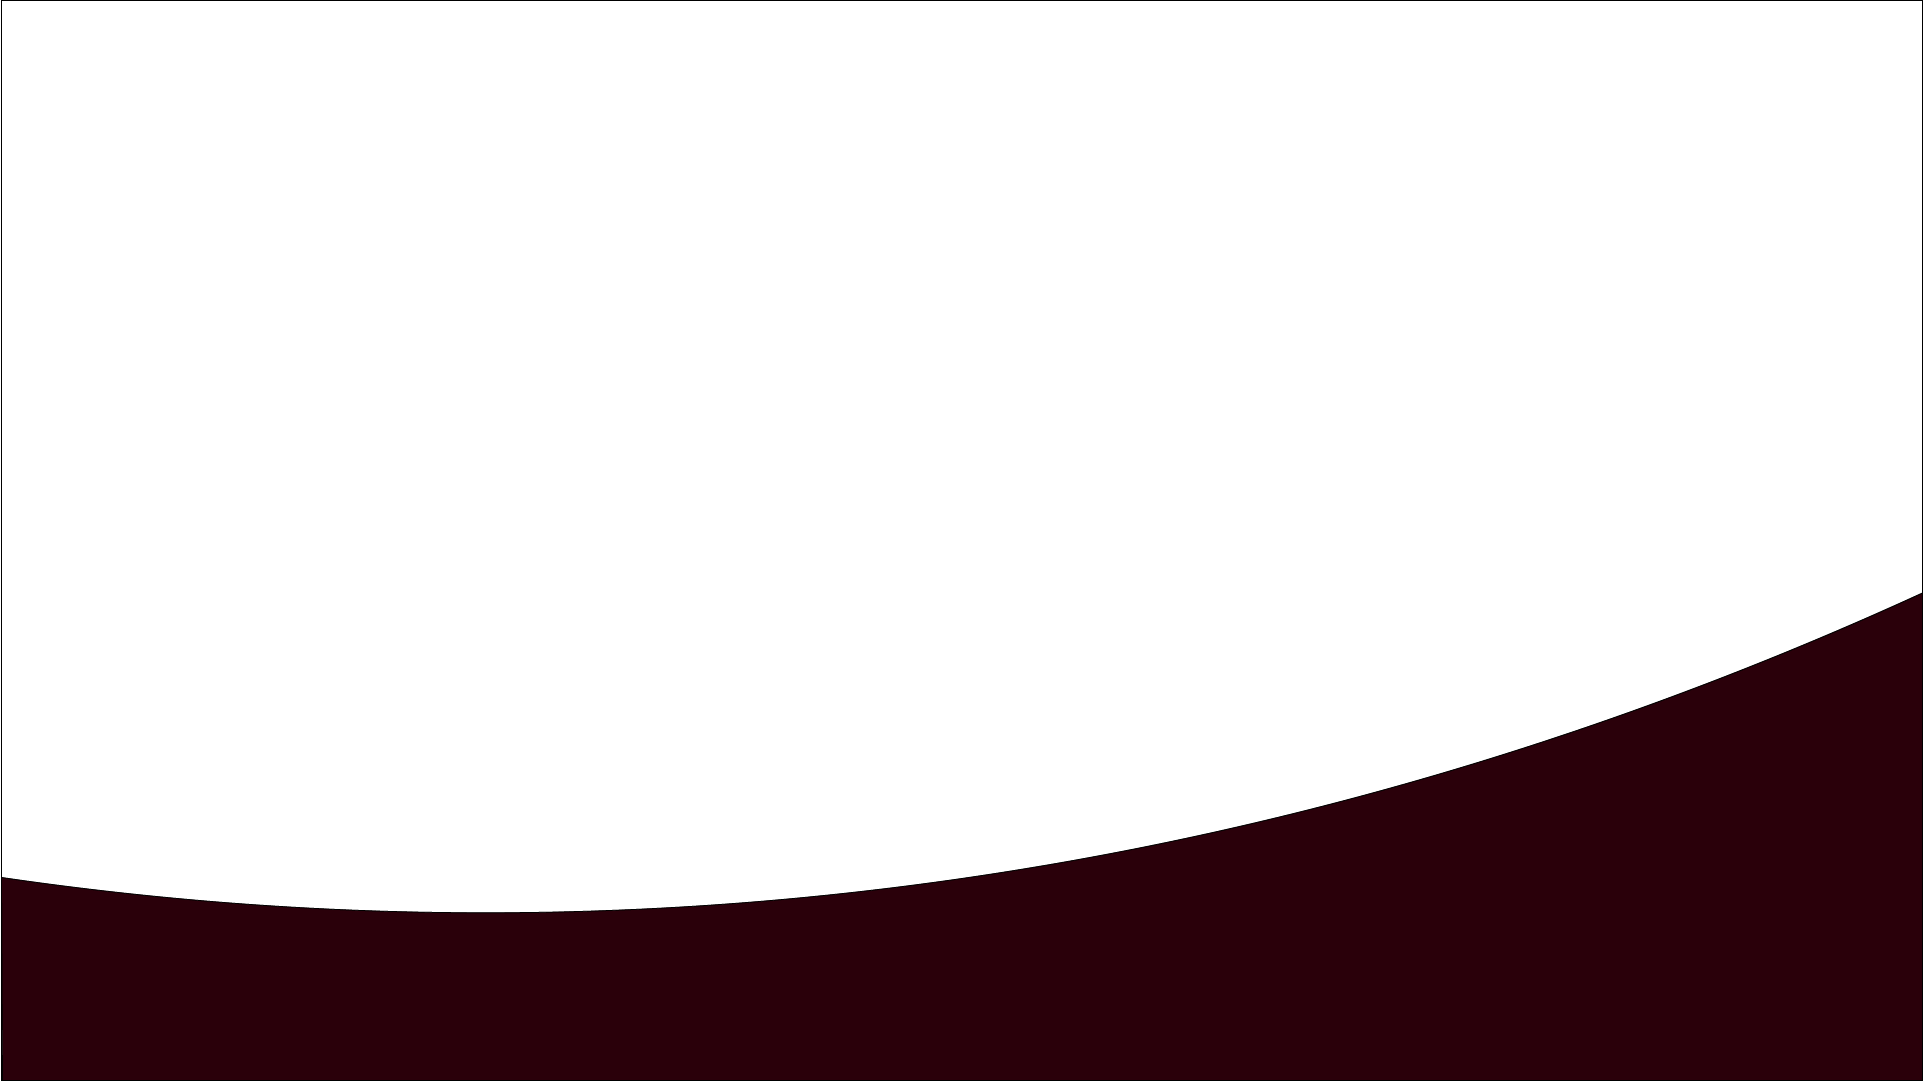
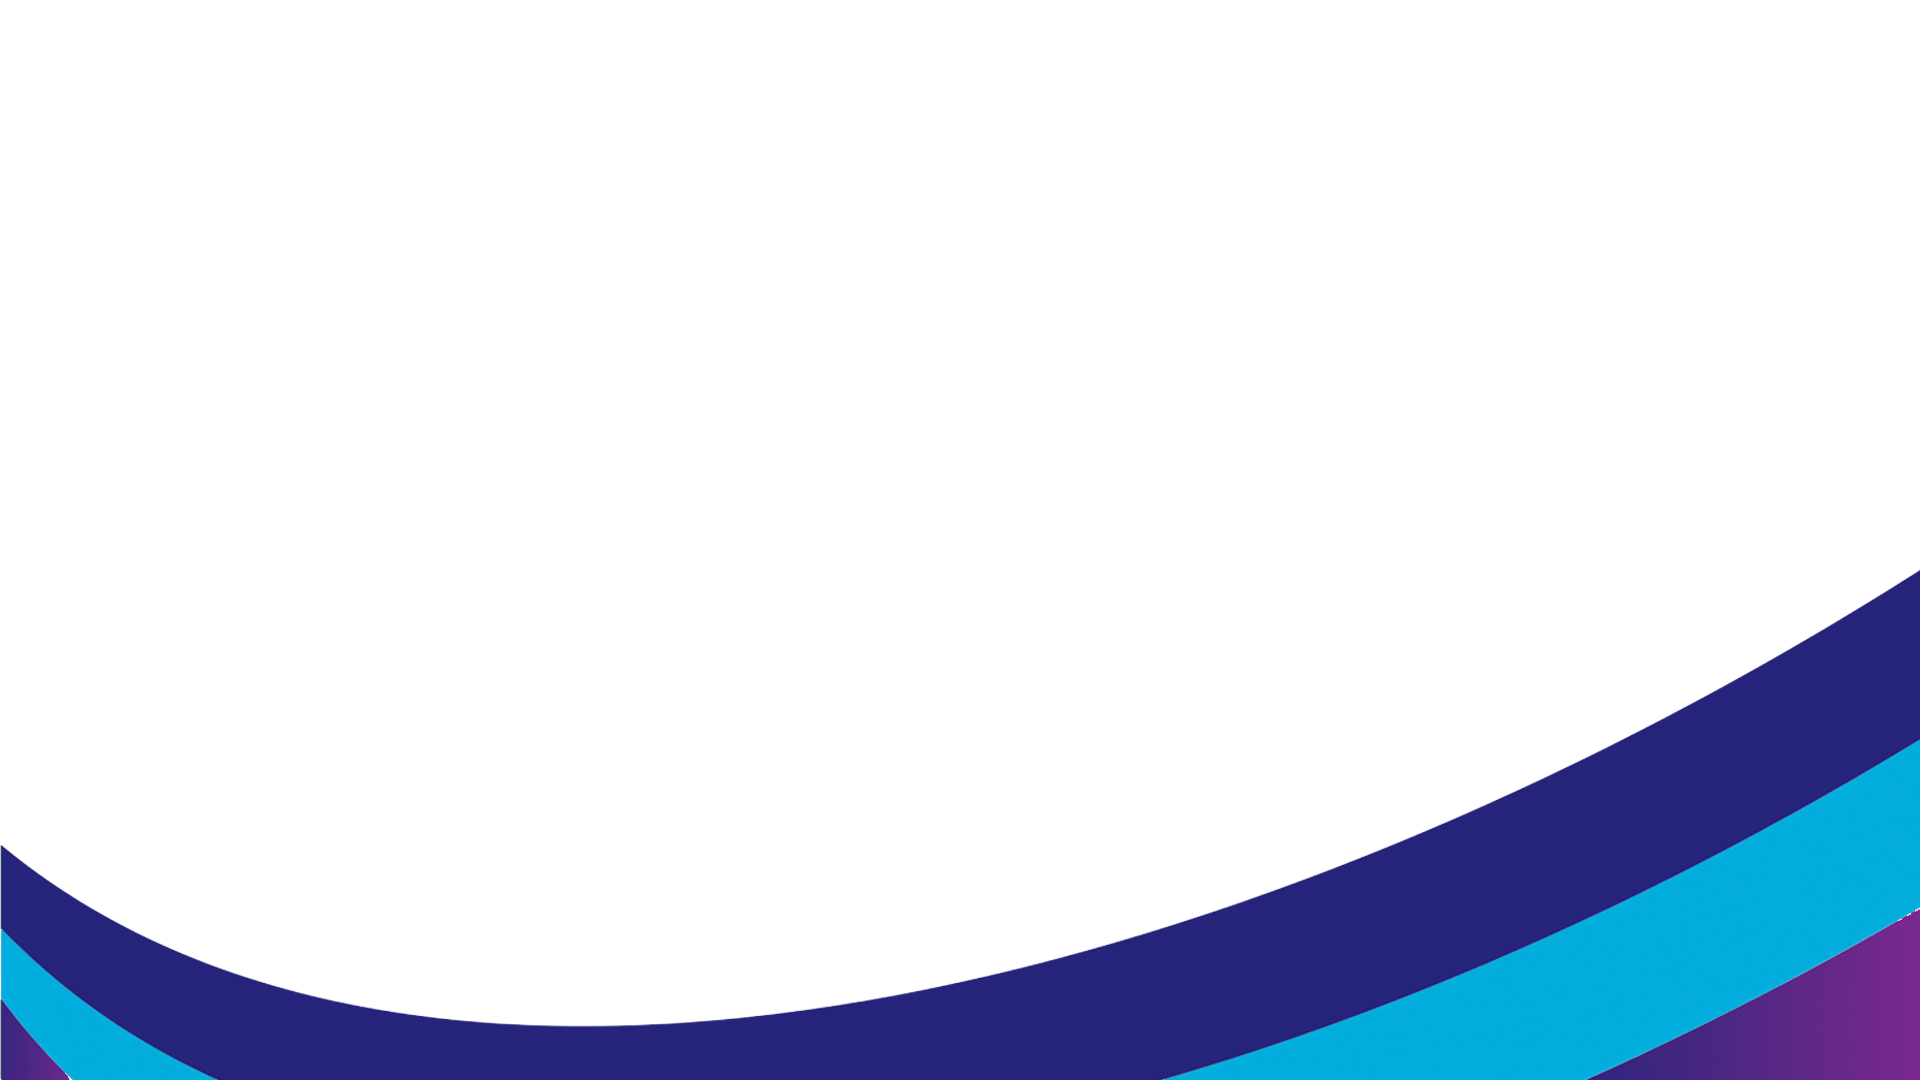
Did some changes to fonts, added a new footer background file

Changed region(s): [[0.0, 0.5194, 1.0, 1.0]]

diff --git a/src/pages/home/Home.css b/src/pages/home/Home.css
@@ -1,18 +1,21 @@
 .destinations {
     padding-bottom: 200px;
+
     .container {
         h1 {
             margin: 80px 0px;
             font-size: 400%;
             font-style: italic;
             font-weight: normal;
-            color:#333;
+            color:#77328B;
         }
 
         select {
             width: 50%;
             padding: 20px;
             margin: 0px 0px 50px 0px;
+            color: #252776;
+            font-style: italic;
         }
     }
 }
@@ -44,7 +47,7 @@
 
             h3 {
                 font-style: italic;
-                color: #333;
+                color: #77328B;
             }
 
             p {
@@ -53,7 +56,7 @@
 
             button {
                 border: none;
-                background-color: #333;
+                background-color: #252776;
                 padding: 10px;
                 color: white;
                 font-style: italic;
@@ -186,10 +189,11 @@
 
     .container {
         h1 {
-            color: #333;
+            color: #104C97;
             text-align: left;
             font-weight: bold;
             padding: 5px 0px;
+            letter-spacing: 2px;
         }
 
         h6 {

diff --git a/src/components/footer/Footer.jsx b/src/components/footer/Footer.jsx
@@ -58,7 +58,7 @@ const Footer = () => {
                             </div>
                             <div className="check">
                                 <input type = "checkbox" />
-                                <label> By Checking this box, I consent to the processing of my Personal Data by Cinnamon for the purpose and within the Conditions set out in this form and the </label>
+                                <label>  By Checking this box, I consent to the processing of my Personal Data by Cinnamon for the purpose and within the Conditions set out in this form and the <b>Cinnamon Data Protection Policy</b> * </label>
                             </div>
                         </form>
                     </div>

diff --git a/src/components/footer/Footer.css b/src/components/footer/Footer.css
@@ -17,7 +17,7 @@
                     h6 {
                         font-size: 25px;
                         font-style: italic;
-                        color: #333;
+                        color: #77328B;
                         padding: 0px;
                     }
 
@@ -57,7 +57,7 @@
                     h5 {
                         font-size: 25px;
                         font-style: italic;
-                        color: #333;
+                        color: #77328B;
                         padding: 20px 0px;
                     }
 
